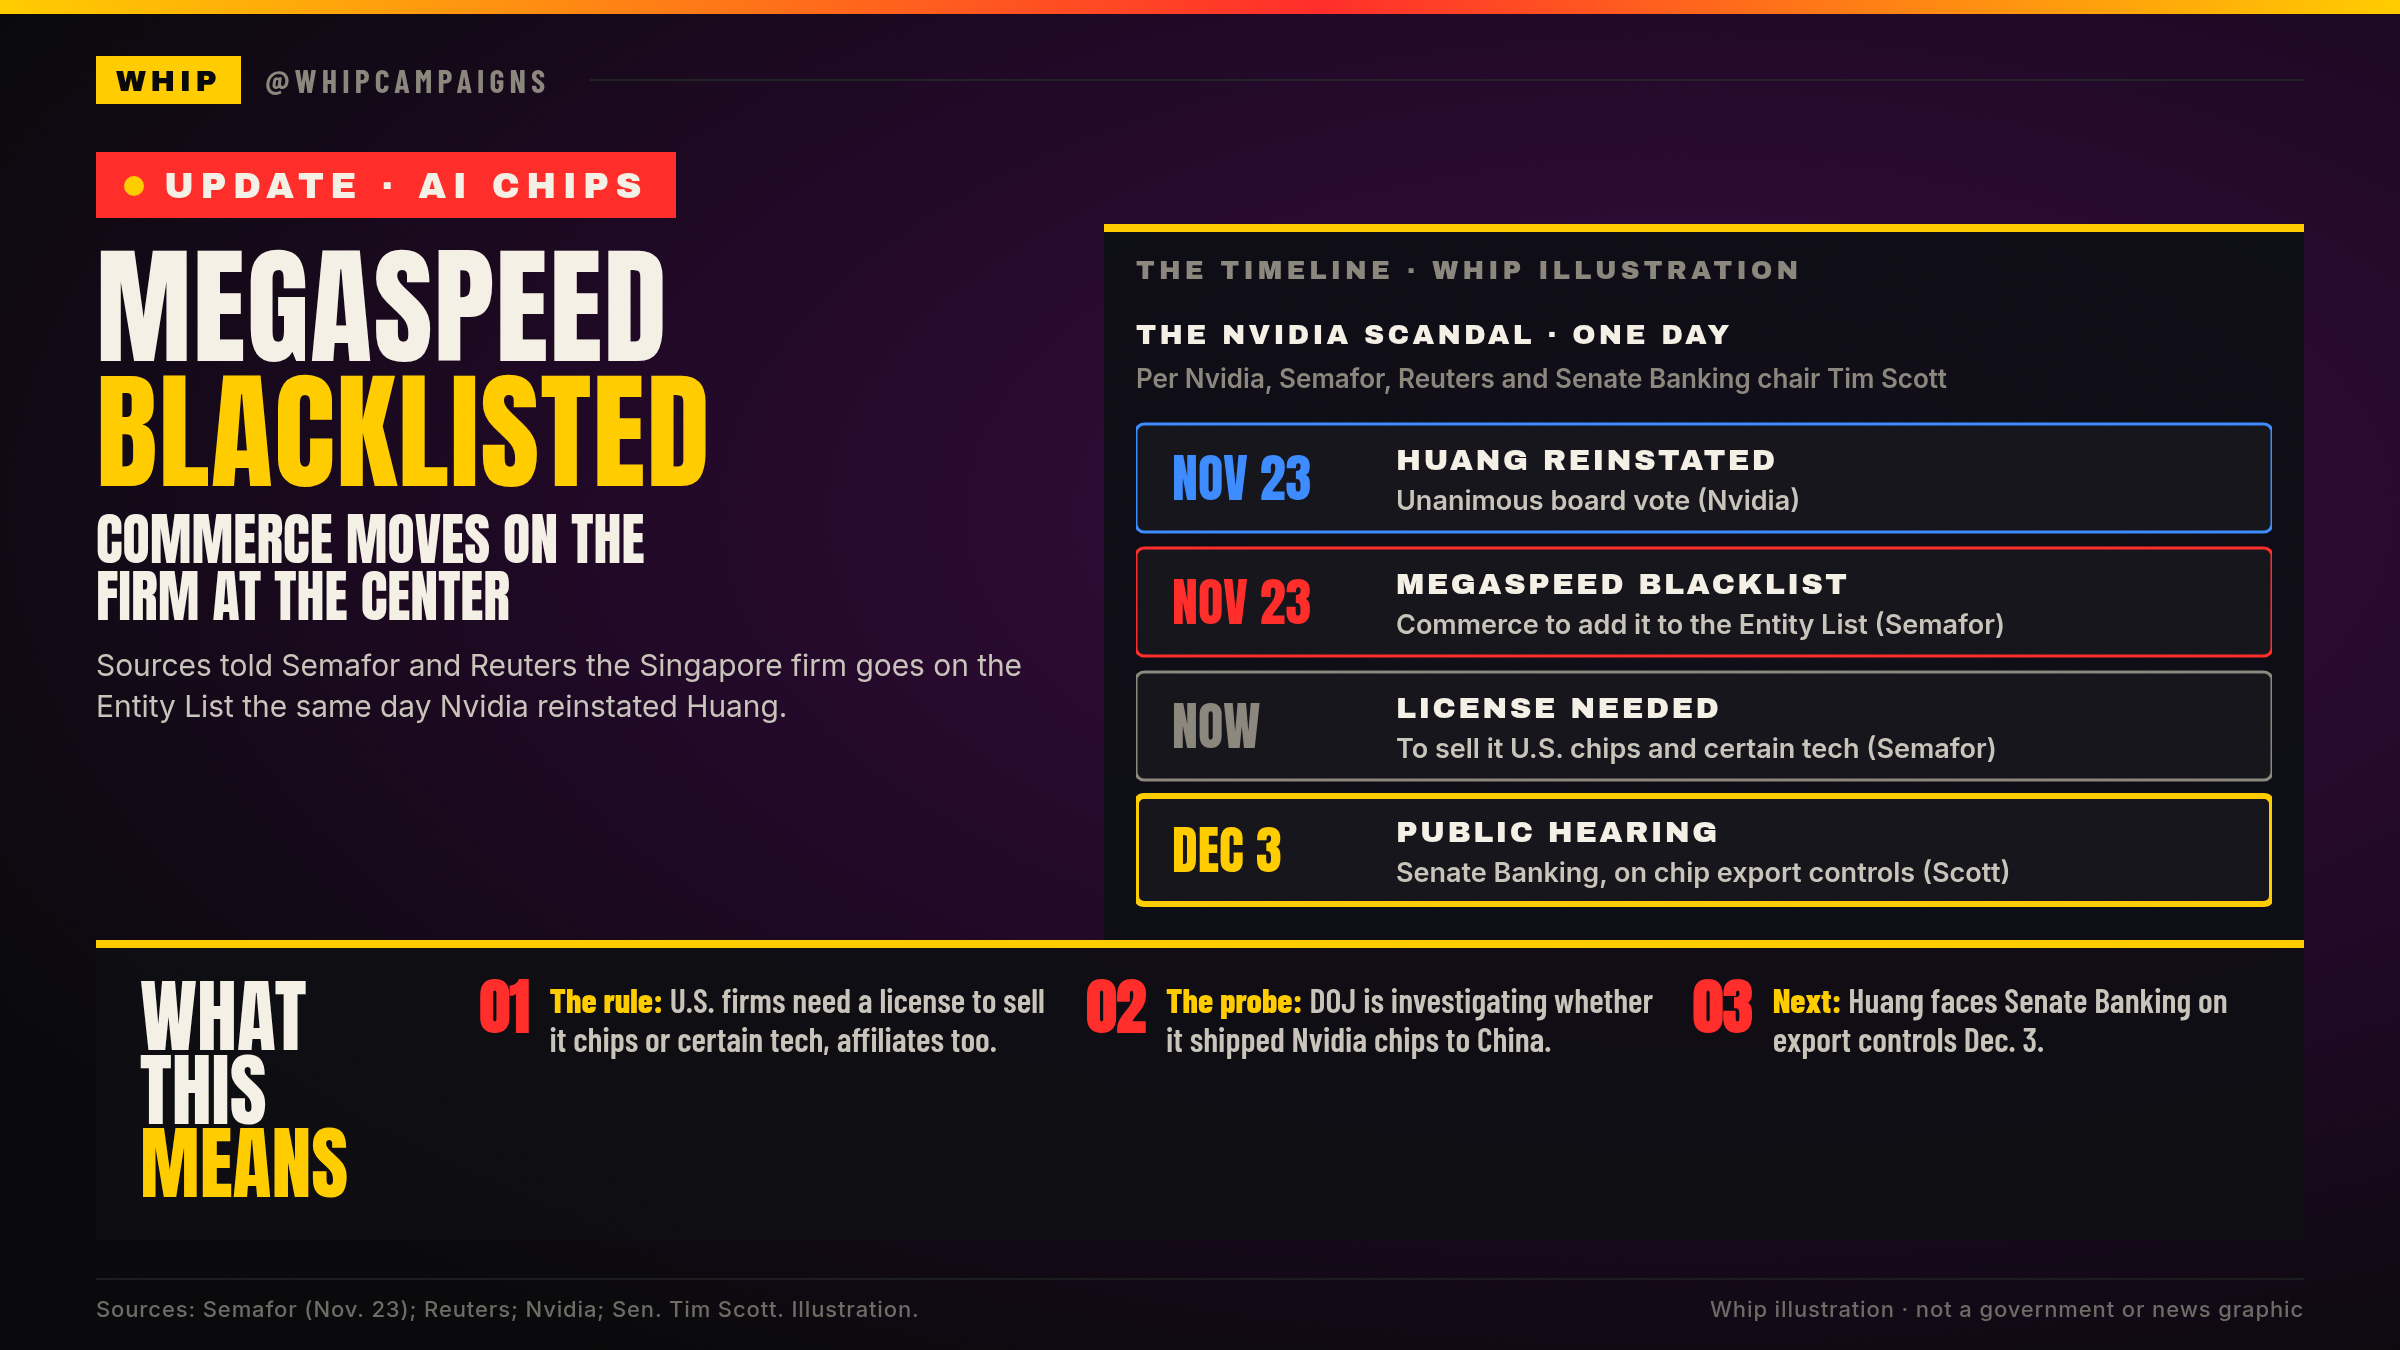
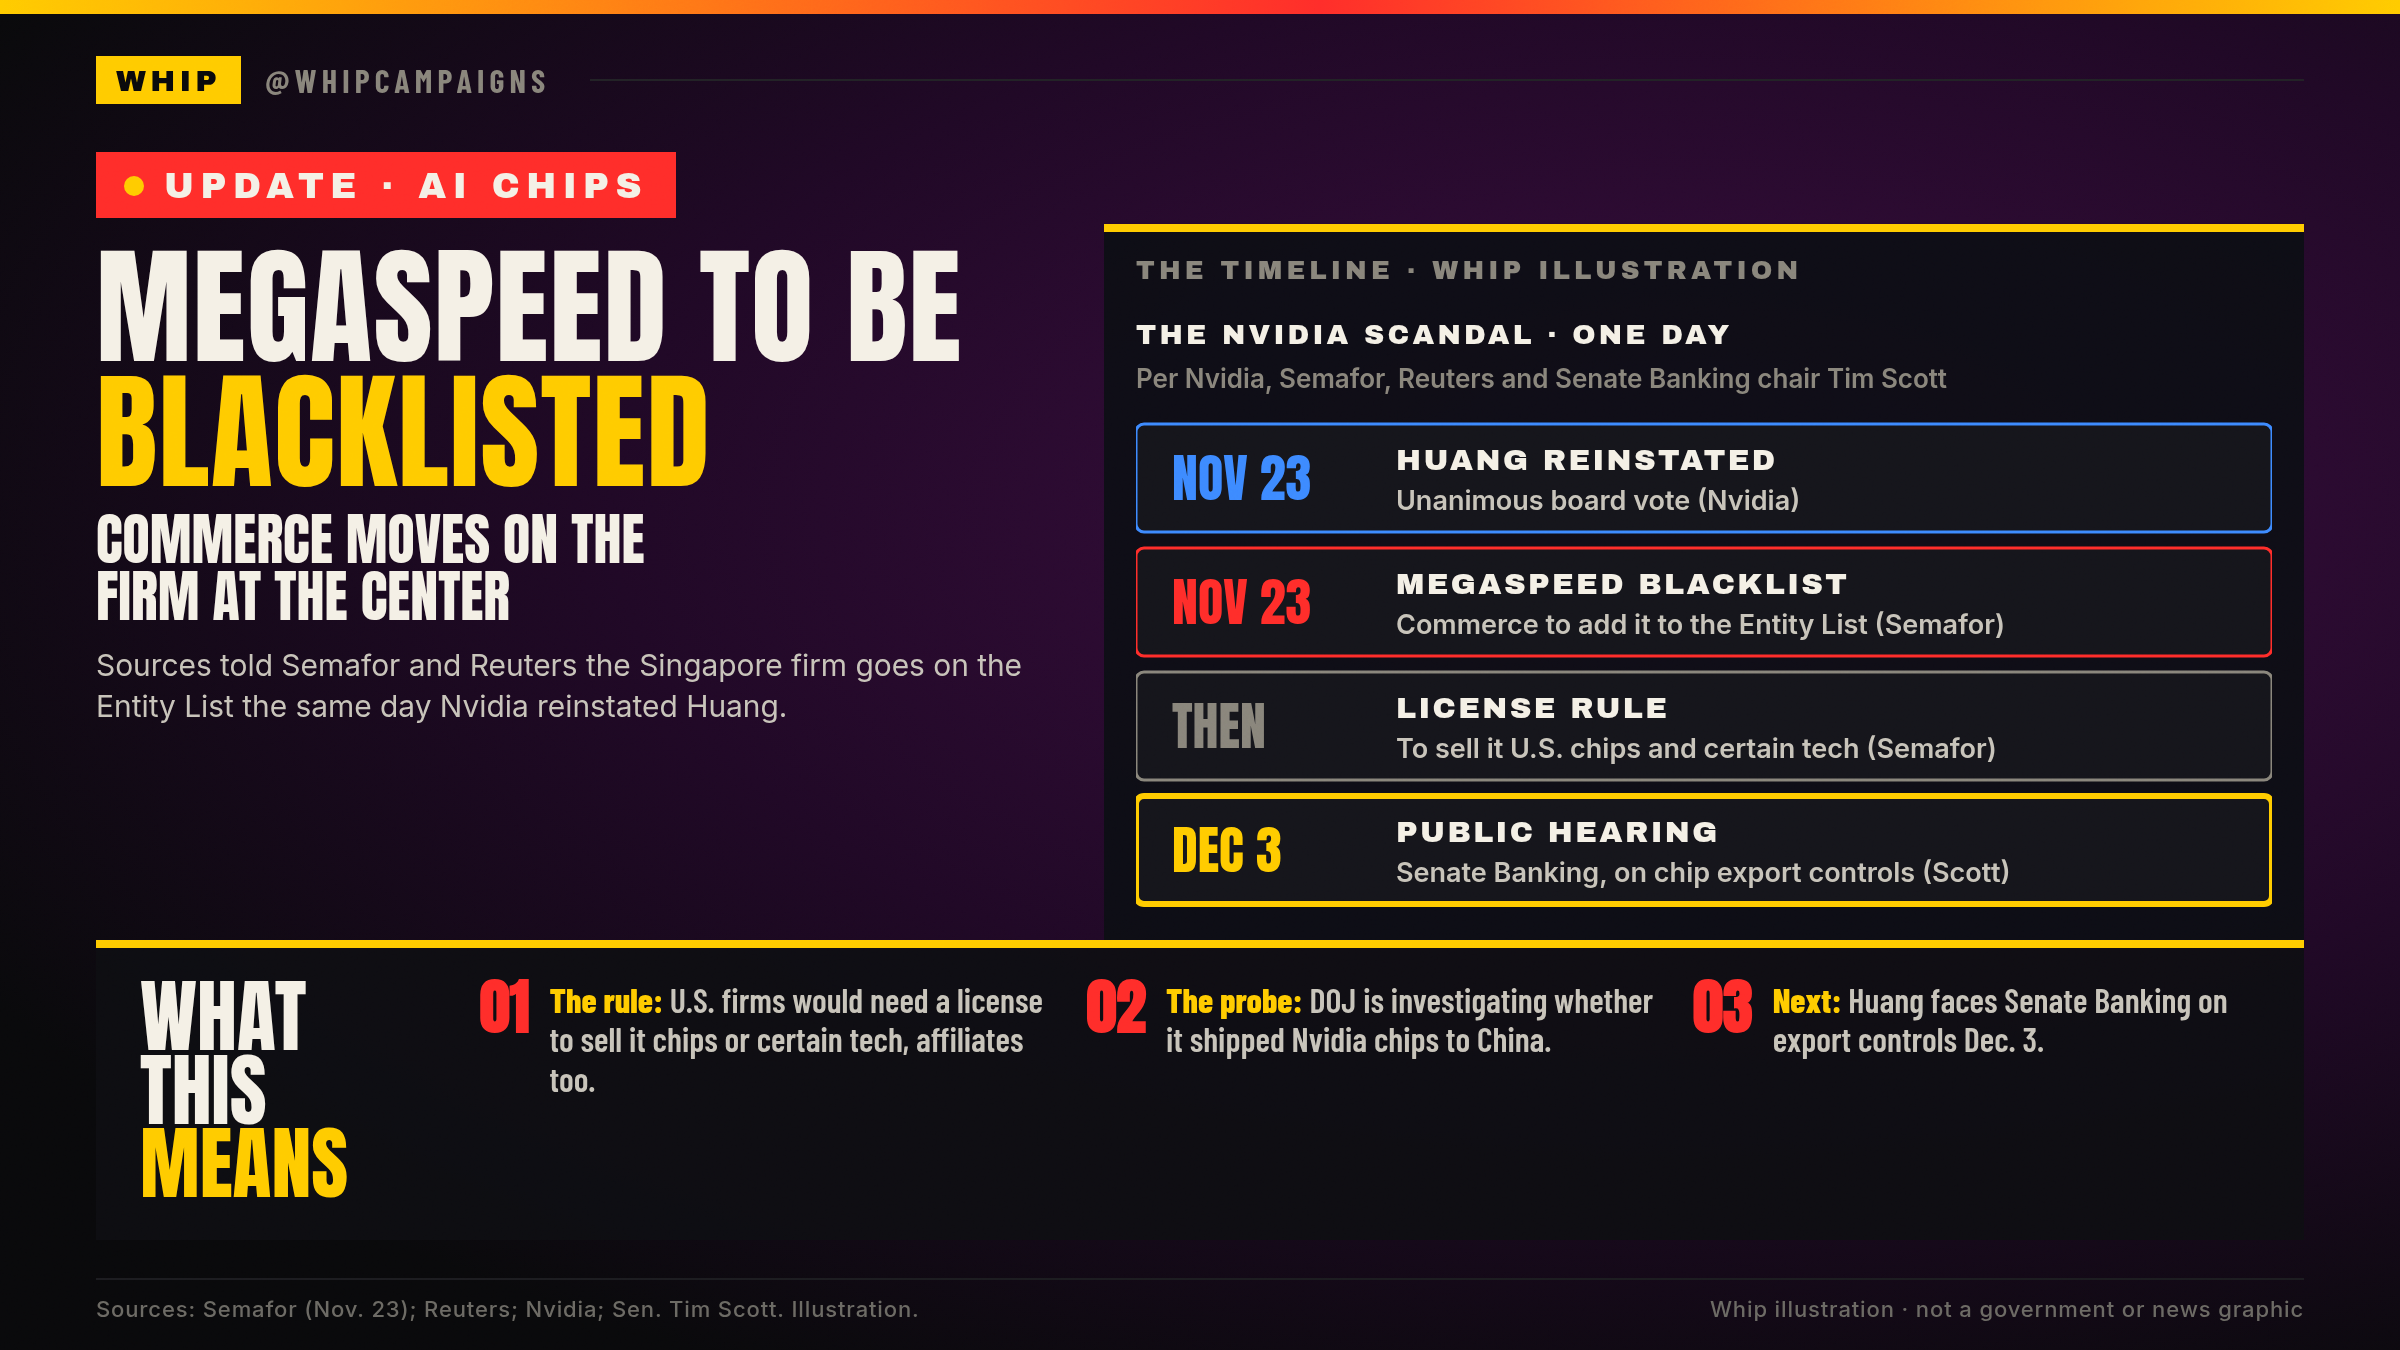
Fix Megaspeed Entity List card to say planned, not completed

diff --git a/breaking/2026-11-23-megaspeed-entity-list/make_card.py b/breaking/2026-11-23-megaspeed-entity-list/make_card.py
@@ -15,7 +15,7 @@ parts.append(f'<text x="0" y="22" font-family="Archivo Black" font-size="14" let
 parts.append(f'<text x="0" y="44" font-family="Inter" font-size="13" font-weight="600" fill="{MUTE}">Per Nvidia, Semafor, Reuters and Senate Banking chair Tim Scott</text>')
 rows = [("NOV 23", "Huang reinstated", "Unanimous board vote (Nvidia)", BLU),
         ("NOV 23", "Megaspeed blacklist", "Commerce to add it to the Entity List (Semafor)", RED),
-        ("NOW", "License needed", "To sell it U.S. chips and certain tech (Semafor)", MUTE),
+        ("THEN", "License rule", "To sell it U.S. chips and certain tech (Semafor)", MUTE),
         ("DEC 3", "Public hearing", "Senate Banking, on chip export controls (Scott)", YEL)]
 y = 62
 for d, lab, note, col in rows:
@@ -30,7 +30,7 @@ html = wrap(f"""
 <div class="footer"><span>Sources: Semafor (Nov. 23); Reuters; Nvidia; Sen. Tim Scott. Illustration.</span><span>Whip illustration &middot; not a government or news graphic</span></div>
 <div class="tag"><span class="dot"></span>UPDATE &middot; AI CHIPS</div>
 <div class="left">
-  <div class="h1">MEGASPEED<br><span class="y">BLACKLISTED</span></div>
+  <div class="h1">MEGASPEED TO BE<br><span class="y">BLACKLISTED</span></div>
   <div class="h2">COMMERCE MOVES ON THE<br>FIRM AT THE CENTER</div>
   <div class="att">Sources told Semafor and Reuters the Singapore firm goes on the Entity List the same day Nvidia reinstated Huang.</div>
 </div>
@@ -40,7 +40,7 @@ html = wrap(f"""
 </div>
 <div class="strip">
   <div class="wt">WHAT THIS<br><span class="y">MEANS</span></div>
-  <div class="b"><div class="n">01</div><div><b>The rule:</b> U.S. firms need a license to sell it chips or certain tech, affiliates too.</div></div>
+  <div class="b"><div class="n">01</div><div><b>The rule:</b> U.S. firms would need a license to sell it chips or certain tech, affiliates too.</div></div>
   <div class="b"><div class="n">02</div><div><b>The probe:</b> DOJ is investigating whether it shipped Nvidia chips to China.</div></div>
   <div class="b"><div class="n">03</div><div><b>Next:</b> Huang faces Senate Banking on export controls Dec. 3.</div></div>
 </div>
